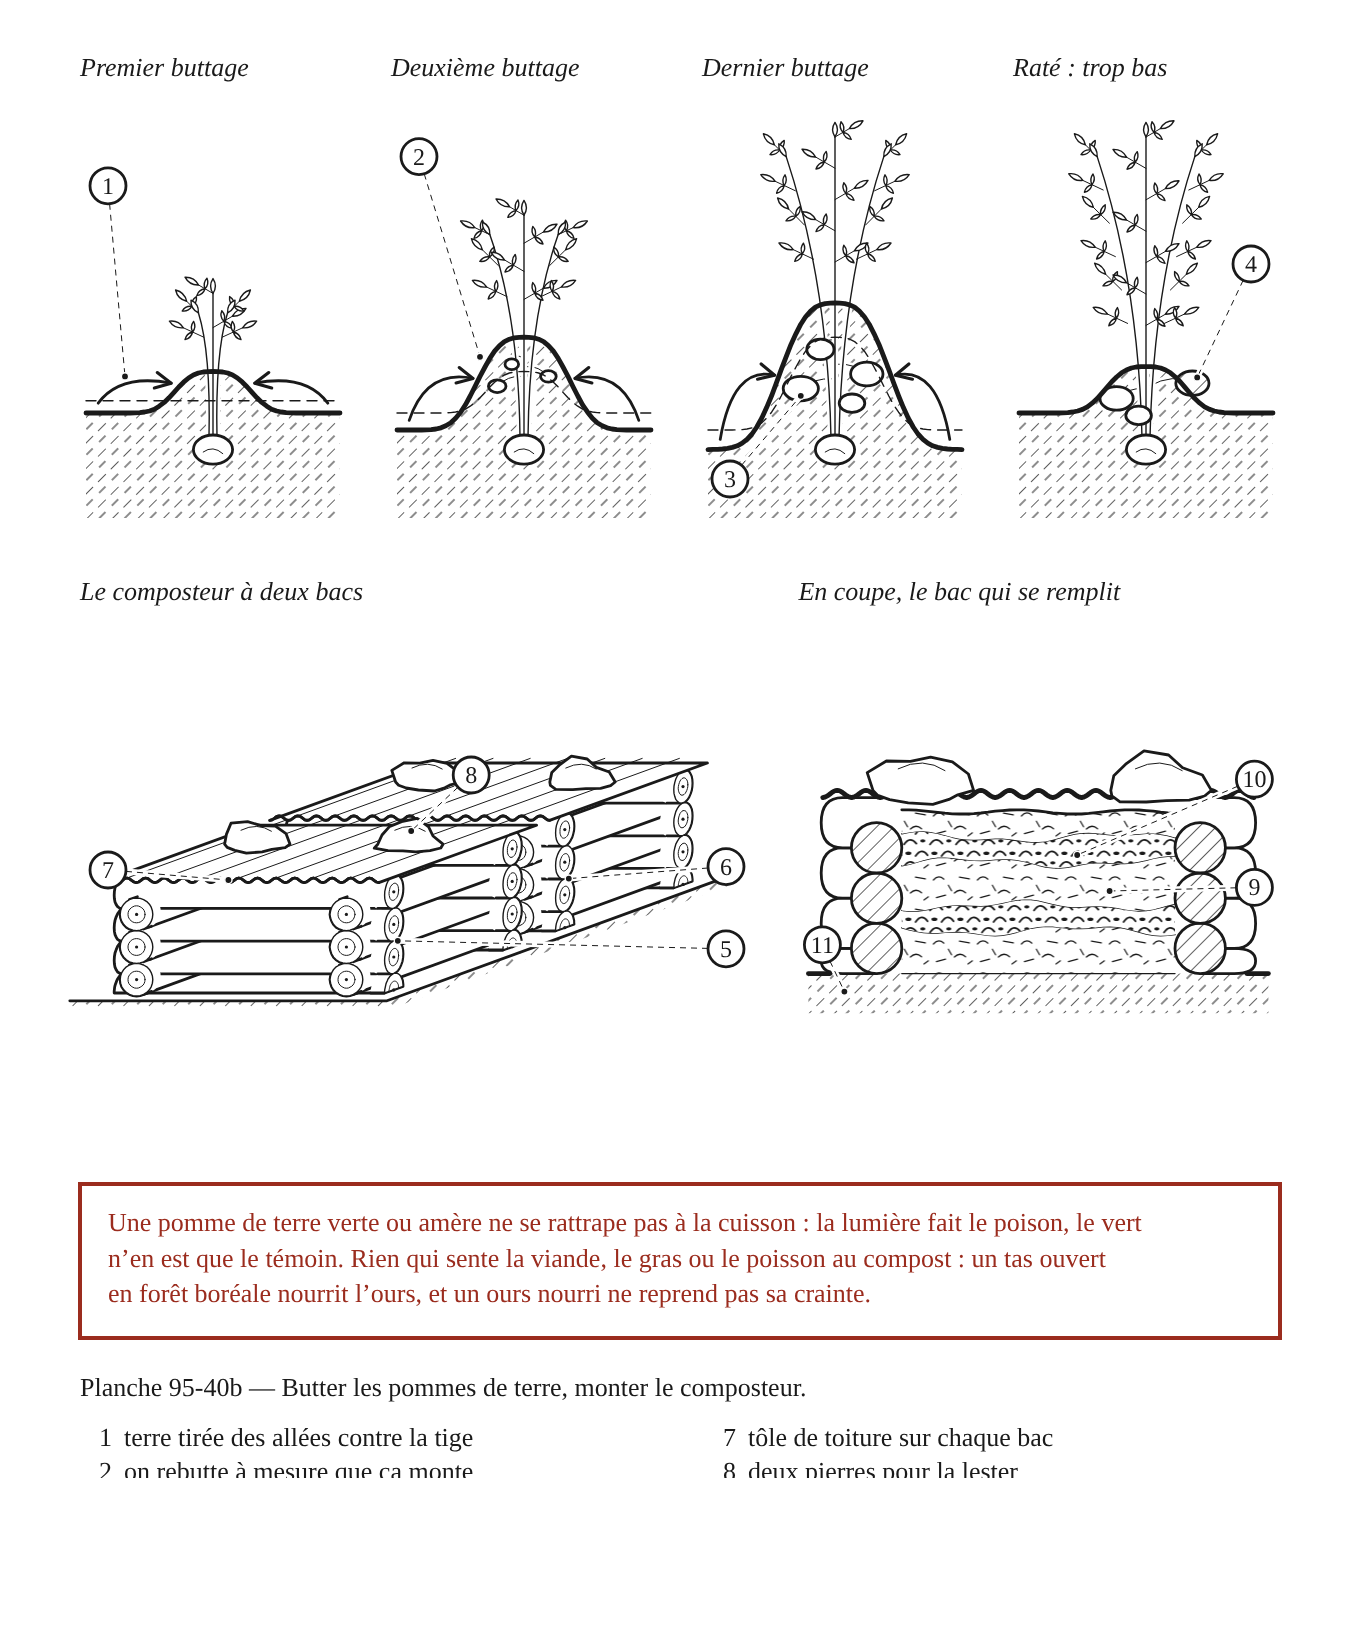
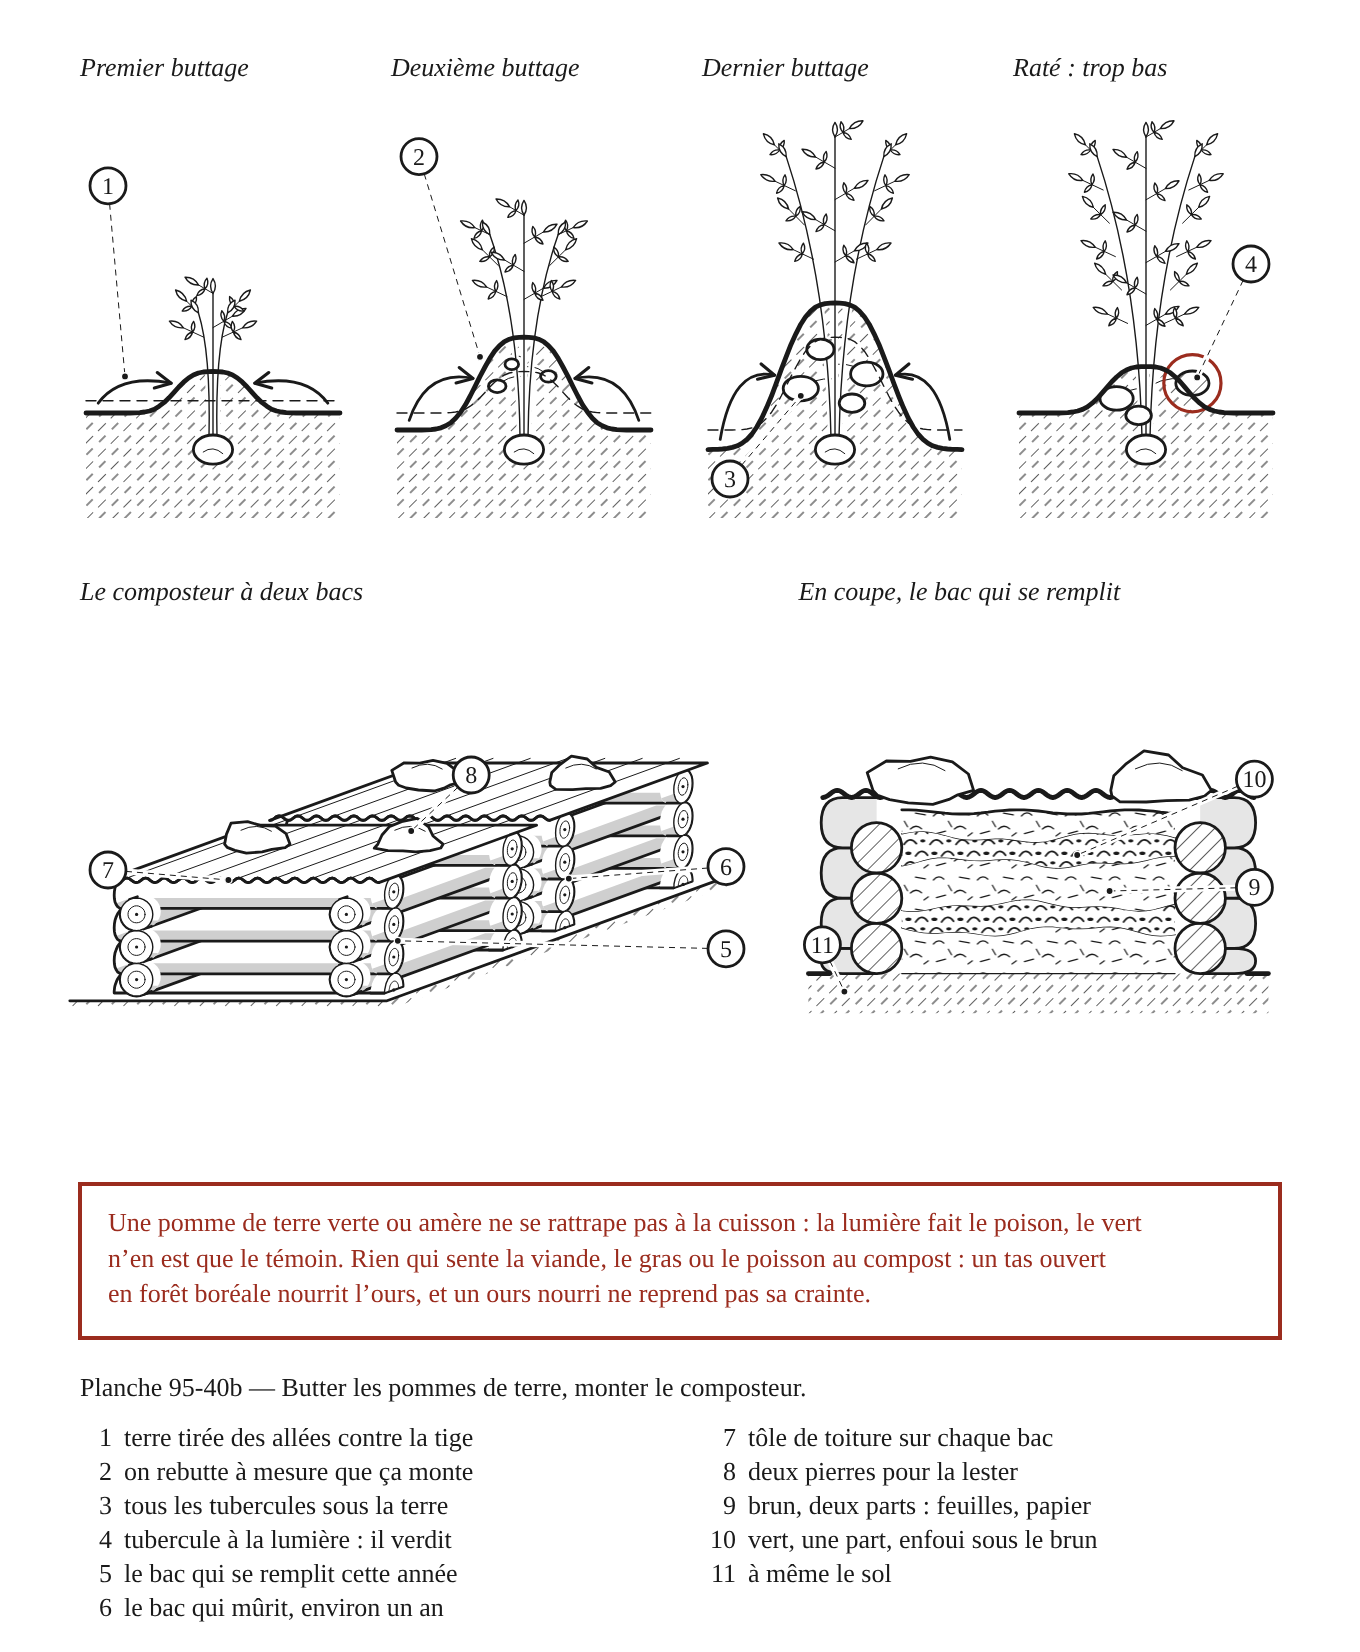
Charte et mains : travail en cours
Claude-Session: https://claude.ai/code/session_014xDY5FLxFXDJt3nYAYznSZ

diff --git a/images/planches-src/95-40b.js b/images/planches-src/95-40b.js
@@ -12,6 +12,10 @@
 // Les perches sont croisées aux coins comme le bac de la 95-40a. Aucune mesure de bac dans le
 // chapitre : aucune cote. Les couches de la coupe sont dessinées à deux épaisseurs de brun pour
 // une de vert, ce qui est la proportion du chapitre, pas une consigne de couches.
+// La charte : comme la 95-40a, le dessous de chaque perche couchée du composteur à l'ombre ; en
+// coupe, les bouts du mur du fond, derrière, en gris loin. Le rouge : le tubercule qui affleure dans
+// le raté (l'endroit où ça casse). Les flèches de la terre tirée vers la tige disent où va la
+// terre, elles restent noires, comme celles du billon de la 95-40a.
 module.exports = (h) => {
   const NOIR = '#1A1A1A';
   const blanc = (a) => a.replace('fill="none"', 'fill="#FFFFFF"');
@@ -82,6 +86,8 @@ module.exports = (h) => {
       const vert = id === 'rate' && i === 1;
       out.push(h.ellipse(c[0], c[1], rx * s, ry * s, h.a.blanc));
       out.push(h.ellipse(c[0], c[1], rx * s, ry * s, vert ? h.a.hachure('metal', 'arete') : blanc(h.a.arete)));
+      // l'endroit où ça casse : le tubercule qui sort à la lumière
+      if (vert) out.push(h.controle(c[0], c[1], Math.max(rx, ry) * s + 6));
     });
     // La surface, trait fort, et la surface d'avant en tireté.
     out.push(h.chemin(prof.map(([x, zz]) => q(x, zz)), h.a.contour));
@@ -148,12 +154,22 @@ module.exports = (h) => {
     const vis = axe === 'x' ? u1 : u0, cache = axe === 'x' ? u0 : u1;
     const A = cerclePerche(p, axe, vis, c, zc, r, demi), B = cerclePerche(p, axe, cache, c, zc, r, demi);
     const out = [];
+    // le dessous de la perche, à l'ombre : l'enveloppe des deux arcs du bas (sous 0,55 r)
+    const bas = (u) => Array.from({ length: 13 }, (_, i) => {
+      const t = Math.PI + 0.582 + (Math.PI - 1.164) * i / 12, dc = r * Math.cos(t), dz = r * Math.sin(t);
+      return axe === 'x' ? p(u, c + dc, zc + dz) : p(c + dc, u, zc + dz);
+    });
+    const ombre = demi ? '' : poly(hull(bas(vis).concat(bas(cache))), h.a.ombre);
     if (!morceau) {
-      out.push(poly(hull(A.concat(B)), blanc(h.a.arete)));
+      const hl = hull(A.concat(B));
+      out.push(poly(hl, h.a.blanc));
+      if (ombre) out.push(ombre);
+      out.push(poly(hl, h.a.arete));
     } else {
       const tag = new Map(); A.forEach((q) => tag.set(q.join(), 'A')); B.forEach((q) => tag.set(q.join(), 'B'));
       const hl = hull(A.concat(B));
       out.push(poly(hl, 'fill="#FFFFFF" stroke="none"'));
+      if (ombre) out.push(ombre);
       hl.forEach((q, i) => {
         const n = hl[(i + 1) % hl.length];
         if (tag.get(q.join()) !== tag.get(n.join())) out.push(h.ligne(q[0], q[1], n[0], n[1], h.a.arete));
@@ -328,7 +344,7 @@ module.exports = (h) => {
             [[0, -OP], [WC, WC + OP]].forEach(([xi, xe]) => {
               const sg = Math.sign(xe - xi), a = q(xi, zb), b = q(xe - sg * RP * 0.5, zb), c = q(xe - sg * RP * 0.5, zh), d = q(xi, zh);
               const m = q(xe + sg * RP * 0.35, (zb + zh) / 2);
-              out.push(h.path(`M${pt(d)} L${pt(c)} Q${pt([m[0], c[1]])} ${pt(m)} Q${pt([m[0], b[1]])} ${pt(b)} L${pt(a)}`, blanc(h.a.arete)));
+              out.push(h.path(`M${pt(d)} L${pt(c)} Q${pt([m[0], c[1]])} ${pt(m)} Q${pt([m[0], b[1]])} ${pt(b)} L${pt(a)}`, h.a.arete.replace('fill="none"', 'fill="#E6E6E6"')));
             });
           }
           // Les couches : brun, vert enfoui, brun, vert enfoui, brun par-dessus.

diff --git a/images/planches-src/112-10a.js b/images/planches-src/112-10a.js
@@ -209,6 +209,9 @@ module.exports = (h) => {
           // blocs : billots debout
           for (const x0 of [g.xL - 8, g.xR - g.bw]) {
             out.push(h.rect(x0, g.yB, g.bw + 8, g.hb, blanc('arete')));
+            // la charte : le flanc droit du billot à l'ombre (lumière en haut à gauche)
+            out.push(h.rect(f(x0 + (g.bw + 8) * 0.64), g.yB, f((g.bw + 8) * 0.36), g.hb, h.a.ombre));
+            out.push(h.rect(x0, g.yB, g.bw + 8, g.hb, h.a.arete));
             for (const u of [0.25, 0.55, 0.8]) out.push(h.path(`M ${f(x0 + (g.bw + 8) * u)} ${g.yB + 4} q 2 ${f(g.hb / 3)} -1 ${f(g.hb * 0.6)}`, h.a.fin));
           }
           // contenant entre les blocs
@@ -219,6 +222,18 @@ module.exports = (h) => {
           const flancD = [...pas(g.yB, g.yT, 16).map(y => [g.cx + rs(y), y])];
           const corps = `M ${P(flanc).map(p => p.join(' ')).join(' L ')} A ${f(r0)} ${ry} 0 0 0 ${P(flancD).map(p => p.join(' ')).join(' L ')} A ${f(r0)} ${ry} 0 0 0 ${f(g.cx - r0)} ${g.yT} Z`;
           out.push(h.path(corps, blanc('contour')));
+          // la charte : le flanc droit du baril à l'ombre, en suivant le bouge
+          {
+            const k = 0.45, sk = Math.sqrt(1 - k * k), us = Array.from({ length: 13 }, (_, i) => k + (1 - k) * i / 12);
+            const ombre = [
+              ...us.map(u => [g.cx + u * r0, g.yT + ry * Math.sqrt(1 - u * u)]),
+              ...pas(g.yT, g.yB, 16).map(y => [g.cx + rs(y), y]),
+              ...us.slice().reverse().map(u => [g.cx + u * r0, g.yB + ry * Math.sqrt(1 - u * u)]),
+              ...pas(g.yB, g.yT, 16).map(y => [g.cx + k * rs(y), y + ry * sk]),
+            ];
+            out.push(h.chemin(P(ombre), h.a.ombre, true));
+            out.push(h.path(corps, h.a.contour));
+          }
           // douves
           for (const c of [-0.82, -0.5, -0.17, 0.17, 0.5, 0.82]) {
             const pts = P(pas(g.yT + ry * Math.sqrt(1 - c * c), g.yB + ry * Math.sqrt(1 - c * c), 16).map(y => [g.cx + rs(y) * c, y]));
@@ -353,7 +368,7 @@ module.exports = (h) => {
           out.push(h.ligne(f(xInG(g, T.yC1)), T.yC1, f(xd), T.yC1, h.a.fin + ' stroke-dasharray="6 4"'));
           // le pilon : un rondin debout, posé sur la couche
           out.push(h.rect(f(T.px - T.pw / 2), 4, T.pw, f(T.yC2 - 4), h.a.hachure('bois', 'arete')));
-          out.push(h.fleche(`M ${f(T.px - T.pw / 2 - 10)} 10 L ${f(T.px - T.pw / 2 - 10)} ${f(T.yC2 - 6)}`));
+          out.push(h.geste(`M ${f(T.px - T.pw / 2 - 10)} 10 L ${f(T.px - T.pw / 2 - 10)} ${f(T.yC2 - 6)}`));   // la charte : tasser, le geste en rouge
           return out.join('\n');
         },
         renvois: z => {
@@ -390,6 +405,8 @@ module.exports = (h) => {
           out.push(h.chemin(chem, blanc('detail'), true));
           out.push(h.fleche(`M ${f(xc)} ${f(T.yAr - 22)} L ${f(xc + 1)} ${f(r.yPa - 2)}`, h.a.cache));
           for (const x of r.trous) out.push(goutte(x, r.yB + 6, 0.7));
+          // la charte : le point qui rate, le chemin creusé où l'eau passe sans rien tirer
+          out.push(h.controle(xc, T.yAr + 34, 13));
           return out.join('\n');
         },
         renvois: z => {

diff --git a/images/planches-src/105-03.js b/images/planches-src/105-03.js
@@ -44,6 +44,8 @@ module.exports = (h) => ({
           h.path(D([[XG, hu], [XD, hu]]), h.a.arete),
           chaine(h, P, D, G0, XU),
           h.path(D(fantome), h.a.cache),
+          // charte : là où ça rate, le limiteur resté à sa hauteur d'origine
+          h.controle(...P([7, G0 - 3]), 9 * S(z)),
         ].join('\n');
       },
       renvois: z => {
@@ -78,7 +80,7 @@ module.exports = (h) => ({
           h.path(L.D([L.lime], true), h.a.hachure('metal', 'aucun')),
           h.path(L.D(L.limeBord), h.a.arete),
           h.cercle(...L.c, L.r, h.a.detail),
-          h.fleche(L.roule),
+          h.geste(L.roule),                         // charte : le geste, rouler la lime vers l'avant
         ].join('\n');
       },
       renvois: z => {
@@ -190,7 +192,7 @@ function chaine(h, P, D, g, x, rond = true) {
   const voisinArriere = [[XD, 0], [XD, 12], [59, 12], [56, 9], [56, 0]];
   const m = maillon(g, x, rond);
   return [
-    h.path(D([[XG, 0], [XD, 0], [XD, -13], [XG, -13]], true), h.a.blanc),
+    h.path(D([[XG, 0], [XD, 0], [XD, -13], [XG, -13]], true), h.a.loin),   // charte : le guide-chaîne, derrière la chaîne
     h.path(D([[XG, 0], [XD, 0]]), h.a.contour),
     h.path(D([[XG, -13], [XD, -13]]), h.a.arete),
     h.path(D(voisinAvant, true), h.a.blanc),
